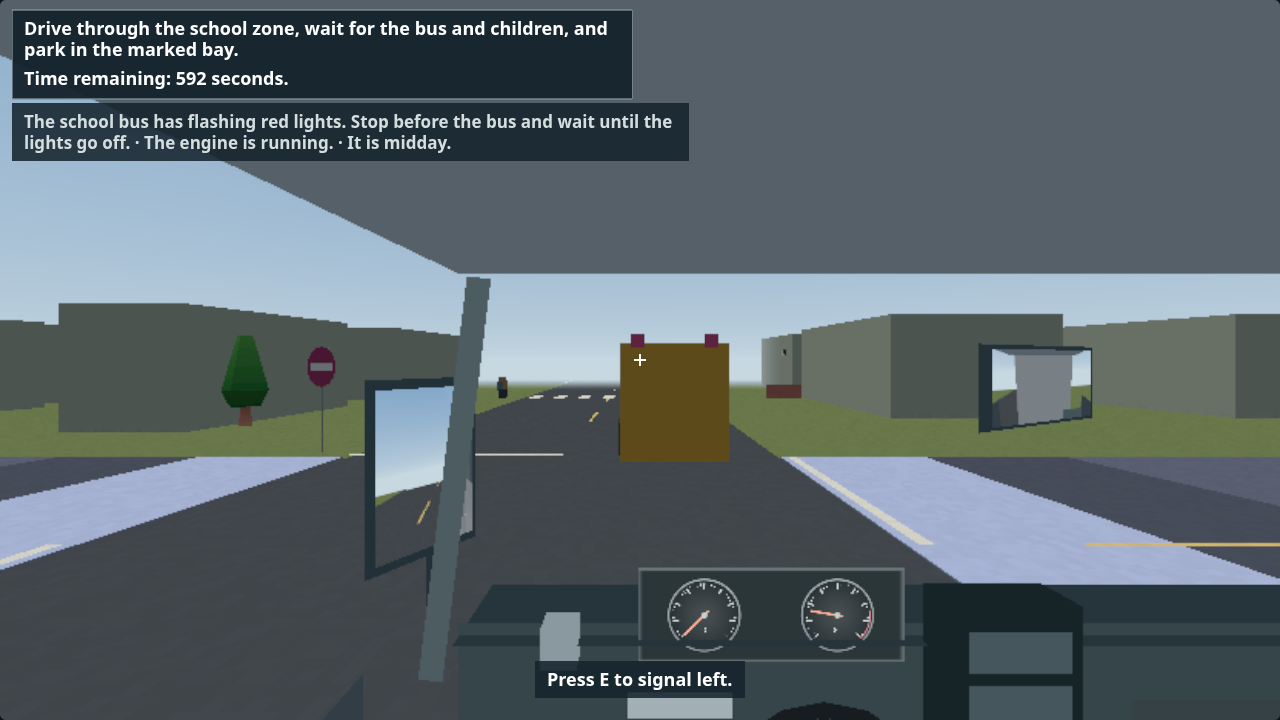
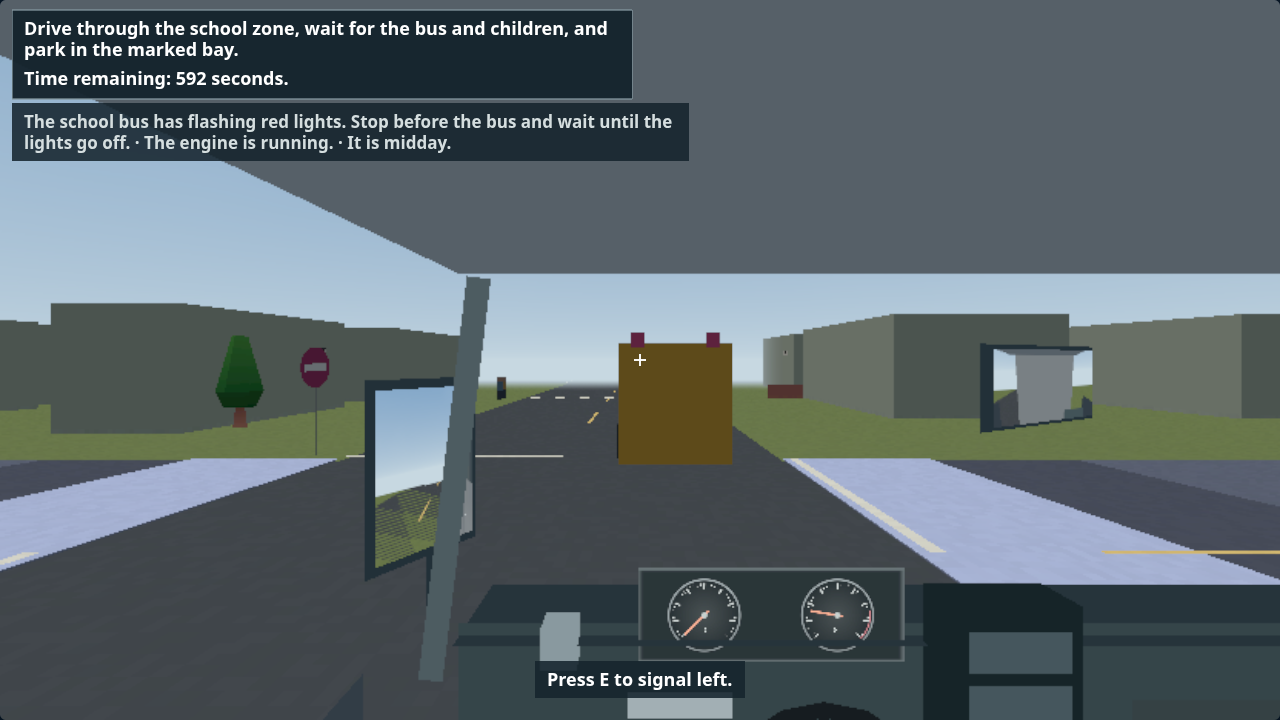
Record the first complete native school drive and continue the matrix

diff --git a/docs/COORDINATION.md b/docs/COORDINATION.md
@@ -646,6 +646,8 @@ Questions marked `needs-owner` on GitHub are listed here too. Work on the rest c
 
 ## Log
 
+- **23 October 2026, Codex — C-39 first native school success:** the corrected Low English normal run passes **104 checks**: actual bus stop/wait, children clearing, automatic reverse camera, native reversing/braking, real mounted finish device, 400 points and three safety stars. Exact workday events/checkpoint/save data are unchanged. The native test source is hash-locked separately from frozen runtime `ec9aaeae`; staged travel/aim limits are explicit. Raw report, four screenshots and log join the 85-suite/eight-view Low evidence in `docs/review/set-10/c39-school-progress/validated-ec9aaeae/manifest.json`. The sequential controller has moved to High/accessible/fallback resource profiles, then the seven remaining school native modes, 72 painted-driving views, remaining High driving modes and retained runner. C-39 remains doing; no protected push, merge, default change or automation change.
+
 - **23 October 2026, Codex — C-39 complete sign wording and current validation:** visual review found that the earlier point proof left wording behind a physical mirror. The start now moves half a metre forward within the map and the parked view faces the sign; six required rays span both text lines, and the final Low image is visually inspected. All 85 suites and the stronger eight-view Low gate pass on frozen runtime `ec9aaeae` (figures above and PERF). The native reverse fixture also met the departing live bus; its test-only fix waits for that actual actor to leave before staging the reverse, with no state/score injection. The corrected native script is independently hash-locked and B-159 checked while the served runtime/resource harness stays frozen. Its first Low run now reaches braking in the finish bay. All remaining profile/native/painted-driving/runner stages are queued sequentially; C-39 stays doing. Evidence: `c39-school-progress/validated-ec9aaeae`, with rejected attempts retained separately. No shared scoring/save/Settings/i18n edit, protected push, merge, default switch or automation change.
 
 - **23 October 2026, Codex — C-39 current-source Node and Low visibility gate:** frozen current-pilot candidate `ec9aaeae` passes all 85 non-browser suites and all eight loaded-Low resource views. Peaks are **40 calls / 1,178 triangles / 2 Three textures / 3,557,376 attachment bytes / 1,857,051 Phaser estimate bytes**, inside unchanged ceilings. Six rays across both sign text lines now clear the mirror, with the whole parked van inside the map. The real red-lamp phase, children, painted finish, reverse screen and device cycle have required proofs. Source/raw evidence: `docs/review/set-10/c39-school-progress/validated-ec9aaeae/manifest.json`. Native bus/crossing/reverse/record validation and the remaining three resource profiles continue sequentially; earlier 83-check native failure was a staged pose overlapping the live bus, now fixed by waiting for that actual bus to clear. C-39 remains doing; no protected push, merge, default switch or automation change.

diff --git a/docs/review/set-10/c39-school-progress/validated-ec9aaeae/README.md b/docs/review/set-10/c39-school-progress/validated-ec9aaeae/README.md
@@ -7,3 +7,5 @@ All eight loaded Low resource/visibility views pass the unchanged gate. Peaks: *
 The remaining three resource profiles, all eight native input/assessment cases, painted-driving gate and retained runner remain in progress. This folder is not a complete matrix or a completed C-39. New sentences await Claude's translations and the shared optional registry entry remains a proposal. No native Intel FPS claim is made; O-1 remains.
 
 The served runtime and resource harness stay frozen at ec9aaeae. The native test is launched independently from the owned branch; its corrected staged-actor waits change that test file only. native-test-source.json records its exact source hash, and the unchanged B-159 guard passes against that file. The controller checks the native-test hash before every further case.
+
+**First native success:** the Low English normal run passes 104 checks, performs the actual bus stop/wait and crossing, uses the live reverse screen and native parking inputs, finishes through the mounted device with 400 points and three safety stars, and preserves the workday events/checkpoint/save data. Its staged-approach and camera-aim limitations are in the raw report. This is one of eight configurations; the remaining seven, assessment layouts, other resource profiles, painted-driving checks and retained runner are pending.
